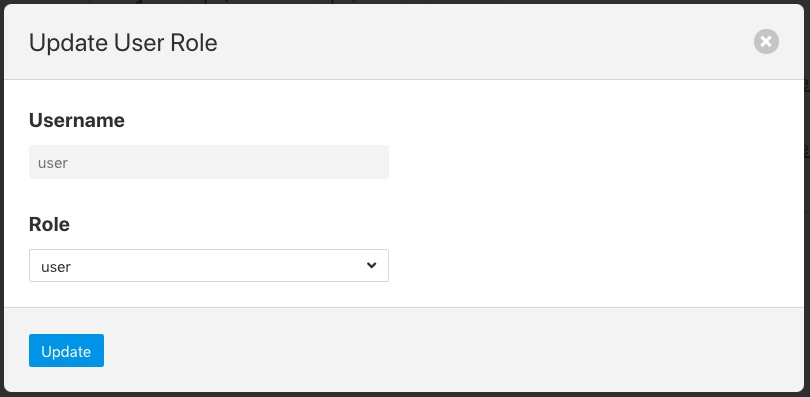
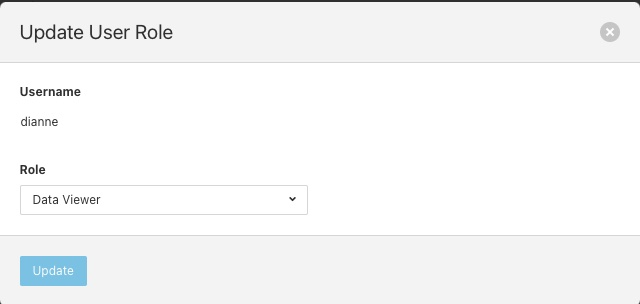
FOGL-7343 Document new user roles (#958)
* FOGL-7343 Update user documentation

* Update user management words

* Update with review feedback

---------

Changed region(s): [[0.0, 0.0, 1.0, 1.0]]

diff --git a/docs/securing_fledge.rst b/docs/securing_fledge.rst
@@ -11,6 +11,7 @@
 .. |password_rotation| image:: images/password_rotation.jpg
 .. |user_management| image:: images/user_management.jpg
 .. |add_user| image:: images/add_user.jpg
+.. |update_user| image:: images/update_user.jpg
 .. |delete_user| image:: images/delete_user.jpg
 .. |change_role| image:: images/change_role.jpg
 .. |reset_password| image:: images/reset_password.jpg
@@ -48,7 +49,7 @@ After enabling HTTPS and selecting save you must restart Fledge in order for the
 
 *Note*: if using the default self-signed certificate you might need to authorise the browser to connect to IP:PORT.
 Just open a new browser tab and type the URL https://YOUR_FLEDGE_IP:1995
-
+;
 Then follow browser instruction in order to allow the connection and close the tab.
 In the Fledge GUI you should see the green icon (Fledge is running).
 
@@ -130,7 +131,12 @@ Whenever a user logs into Fledge the age of their password is checked against th
 User Management
 ===============
 
-Once mandatory authentication has been enabled and the currently logged in user has the role *admin*, a new option appears in the GUI, *User Management*.
+The user management option becomes active once the Fledge has been configured to require authentication of users. This is enabled via the *Admin API* page of the *Configuration* menu item. A new menu item *User Management* will appear in the left hand menu.
+
+.. note::
+
+   After setting the Authentication option to mandatory in the configuration page the Fledge instance should be restarted.
+
 
 +-------------------+
 | |user_management| |
@@ -142,11 +148,19 @@ The user management pages allows
   - Deleting users.
   - Resetting user passwords.
   - Changing the role of a user.
+  - Changing the details of a user
 
-Fledge currently supports two roles for users,
+Fledge currently supports four roles for users:
 
-  - **admin**: a user with admin role is able to fully configure Fledge and also manage Fledge users
-  - **user**: a user with this role is able to configure Fledge but can not manage users
+  - **Administrator**: a user with admin role is able to fully configure Fledge, view the data read by the Fledge instance  and also manage Fledge users.
+
+  - **Editor**: a user with this role is able to configure Fledge and view the data read by Fledge. The user can not manage other users or add new users.
+
+  - **Viewer**: a user that can only view the configuration of the Fledge instance and the data that has been read by Fledge. The user has no ability to modify the Fledge instance in any way.
+
+  - **Data Viewer**: a user that can only view the data in Fledge and not the configuration of Fledge itself. The user has no ability to modify the Fledge instance in any way.
+
+Restrictions apply to both the API calls that can be made when authenticated as particular users and the access the user will have to the graphical user interface. Users will observe both menu items will be removed completely or options on certain pages will be unavailable.
 
 Adding Users
 ------------
@@ -158,6 +172,15 @@ To add a new user from the *User Management* page select the *Add User* icon in 
 +------------+
 
 You can select a role for the new user, a user name and an initial password for the user. Only users with the role *admin* can add new users.
+
+Update User Details
+-------------------
+
+The edit user option allows the name, authentication method and description of a user to be updated. This option is only available to users with the *admin* role.
+
++---------------+
+| |update_user| |
++---------------+
 
 Changing User Roles
 -------------------
